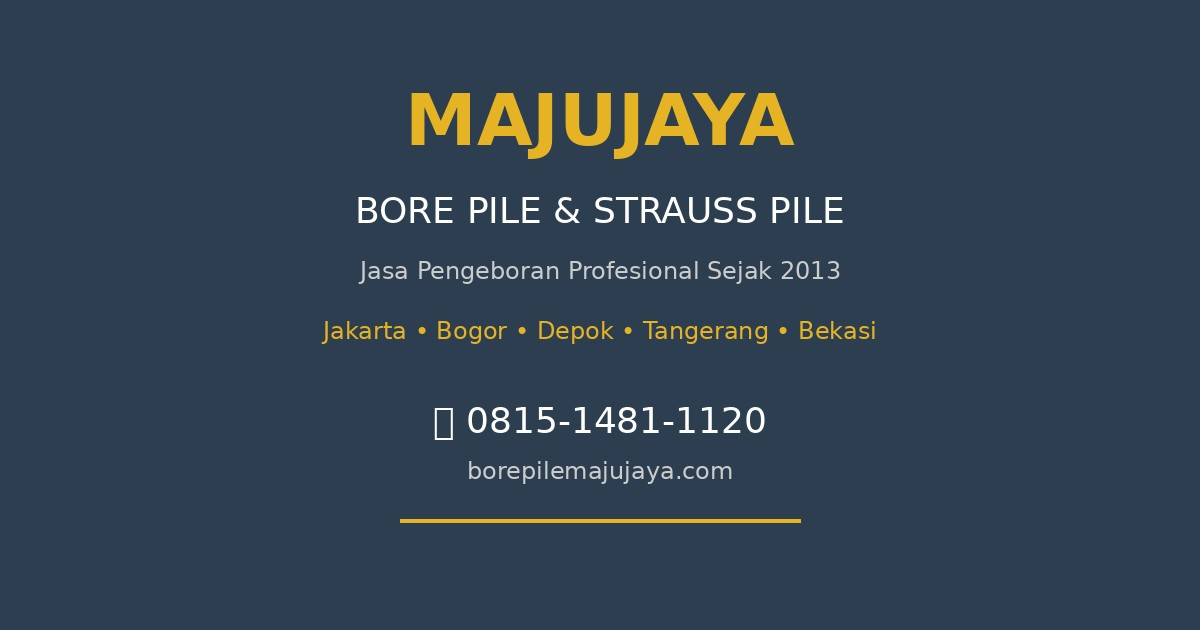
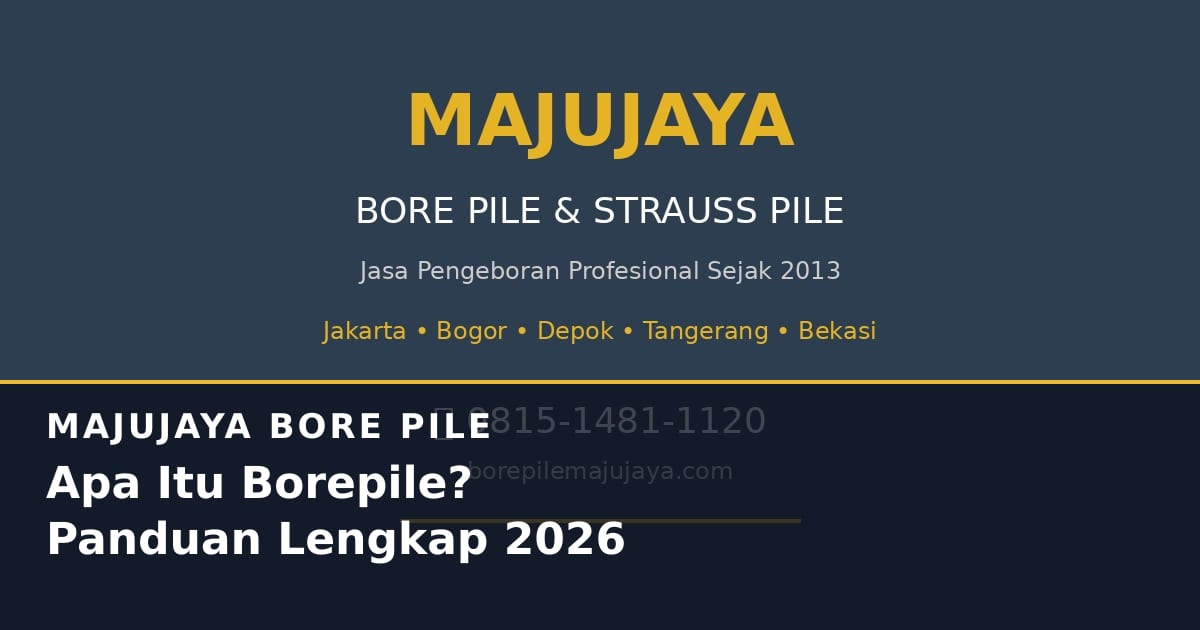
seo: unique blog og images, /blog index page, meta+lang tags

diff --git a/public/blog/index.html b/public/blog/index.html
@@ -1,0 +1,89 @@
+<!DOCTYPE html>
+<html lang="id">
+<head>
+    <meta charset="UTF-8">
+    <meta name="viewport" content="width=device-width, initial-scale=1.0">
+    <meta name="description" content="Blog Jasa Bore Pile Majujaya - panduan lengkap borepile, harga bore pile per titik 2026, dan tips memilih kontraktor bore pile terpercaya di Jakarta.">
+    <meta name="robots" content="index, follow, max-image-preview:large">
+    <title>Blog Jasa Bore Pile Majujaya - Panduan, Harga, dan Tips Kontraktor</title>
+    <link rel="canonical" href="https://borepilemajujaya.com/blog/">
+    <meta property="og:locale" content="id_ID">
+    <meta property="og:type" content="website">
+    <meta property="og:site_name" content="Jasa Bore Pile Majujaya">
+    <meta property="og:title" content="Blog Jasa Bore Pile Majujaya - Panduan, Harga, dan Tips Kontraktor">
+    <meta property="og:description" content="Panduan borepile, harga bore pile per titik 2026, dan tips memilih kontraktor bore pile terpercaya di Jakarta.">
+    <meta property="og:url" content="https://borepilemajujaya.com/blog/">
+    <meta property="og:image" content="https://borepilemajujaya.com/og-image.jpg">
+    <meta name="twitter:card" content="summary_large_image">
+    <link rel="preconnect" href="https://fonts.googleapis.com">
+    <link rel="preconnect" href="https://fonts.gstatic.com" crossorigin>
+    <link href="https://fonts.googleapis.com/css2?family=Inter:wght@400;500;600;700;800&display=swap" rel="stylesheet">
+    <link rel="stylesheet" href="/blog/blog.css">
+    <script type="application/ld+json">
+    {
+        "@context": "https://schema.org",
+        "@type": "Blog",
+        "name": "Blog Jasa Bore Pile Majujaya",
+        "url": "https://borepilemajujaya.com/blog/",
+        "description": "Panduan borepile, harga bore pile per titik 2026, dan tips memilih kontraktor bore pile terpercaya di Jakarta.",
+        "publisher": {
+            "@type": "Organization",
+            "name": "JASA BORE PILE MAJUJAYA",
+            "logo": {
+                "@type": "ImageObject",
+                "url": "https://borepilemajujaya.com/favicon.svg"
+            }
+        }
+    }
+    </script>
+</head>
+<body>
+    <div class="container">
+        <article-header>
+            <div class="article-meta">
+                <span>Blog Majujaya</span>
+                <span class="article-meta-divider"></span>
+                <span>Subiyanto</span>
+            </div>
+            <h1>Blog Jasa Bore Pile Majujaya</h1>
+            <p style="margin-top:1rem; color:var(--color-ink-muted);">Panduan lengkap borepile, harga bore pile per titik, dan tips memilih kontraktor bore pile terpercaya di Jakarta &amp; sekitarnya.</p>
+        </article-header>
+
+        <article>
+            <ul style="list-style:none; margin:0; padding:0;">
+
+                <li style="padding:1.5rem 0; border-bottom:1px solid var(--color-border);">
+                    <h2 style="margin:0 0 0.5rem; padding:0; border:none;"><a href="/blog/apa-itu-borepile-panduan-lengkap-2026.html">Apa Itu Borepile? Panduan Lengkap 2026 untuk Pemula</a></h2>
+                    <p style="margin:0 0 0.5rem; color:var(--color-ink-muted);">Definisi borepile, fungsi, jenis, proses pengerjaan, estimasi harga per titik, dan kapan Anda membutuhkan pondasi borepile.</p>
+                    <p style="margin:0; font-size:0.875rem; color:var(--color-ink-faint); text-transform:uppercase; letter-spacing:0.05em;">9 Juli 2026 &middot; 8 menit baca</p>
+                </li>
+
+                <li style="padding:1.5rem 0; border-bottom:1px solid var(--color-border);">
+                    <h2 style="margin:0 0 0.5rem; padding:0; border:none;"><a href="/blog/harga-bore-pile-per-titik-2026.html">Harga Bore Pile Per Titik 2026 - Lengkap &amp; Transparan</a></h2>
+                    <p style="margin:0 0 0.5rem; color:var(--color-ink-muted);">Harga strauss pile, bore pile mesin, sumur bor, dan rincian biaya komponen terpisah untuk proyek pondasi Anda.</p>
+                    <p style="margin:0; font-size:0.875rem; color:var(--color-ink-faint); text-transform:uppercase; letter-spacing:0.05em;">9 Juli 2026</p>
+                </li>
+
+                <li style="padding:1.5rem 0;">
+                    <h2 style="margin:0 0 0.5rem; padding:0; border:none;"><a href="/blog/tips-memilih-kontraktor-bore-pile-jakarta.html">7 Tips Memilih Kontraktor Bore Pile Terpercaya di Jakarta</a></h2>
+                    <p style="margin:0 0 0.5rem; color:var(--color-ink-muted);">Cara cek legalitas, portofolio, pengalaman, dan harga terbaik sebelum memilih kontraktor pondasi bore pile untuk proyek Anda.</p>
+                    <p style="margin:0; font-size:0.875rem; color:var(--color-ink-faint); text-transform:uppercase; letter-spacing:0.05em;">9 Juli 2026 &middot; 7 menit baca</p>
+                </li>
+
+            </ul>
+        </article>
+
+        <div class="cta-box">
+            <h3>Butuh Konsultasi Pondasi Bore Pile?</h3>
+            <p>Gratis survey dan konsultasi dengan tim geoteknik Majujaya -- 12+ tahun pengalaman, 250+ titik pengeboran.</p>
+            <a href="https://wa.me/6281514811120?text=Halo%20Majujaya%2C%20saya%20butuh%20konsultasi%20borepile" class="btn" target="_blank" rel="noopener">Konsultasi via WhatsApp</a>
+            <p style="margin-top:1rem; font-size:0.875rem; opacity:0.7;">0815-1481-1120 (Subiyanto) | Melayani Jakarta, Bogor, Depok, Tangerang, Bekasi &amp; sekitarnya</p>
+        </div>
+
+        <footer>
+            <p>&copy; 2026 JASA BORE PILE MAJUJAYA</p>
+            <p><a href="https://borepilemajujaya.com">Kembali ke Beranda</a> | <a href="https://borepilemajujaya.com/location/jakarta-pusat.html">Jakarta Pusat</a> | <a href="https://borepilemajujaya.com/location/jakarta-selatan.html">Jakarta Selatan</a></p>
+        </footer>
+    </div>
+</body>
+</html>

diff --git a/public/blog/apa-itu-borepile-panduan-lengkap-2026.html b/public/blog/apa-itu-borepile-panduan-lengkap-2026.html
@@ -6,6 +6,9 @@
     <meta name="description" content="Panduan lengkap apa itu borepile: definisi, fungsi, jenis, harga per titik, dan kapan butuh borepile untuk pondasi rumah, ruko, atau gedung. Baca sebelum bangun!">
     <meta name="keywords" content="borepile, apa itu borepile, fungsi borepile, jenis borepile, harga borepile, pondasi borepile, kontraktor borepile">
     <title>Apa Itu Borepile? Panduan Lengkap 2026 untuk Pemula | Majujaya Bore Pile</title>
+    <meta property="og:locale" content="id_ID">
+    <meta property="og:site_name" content="Jasa Bore Pile Majujaya">
+    <meta name="robots" content="index, follow, max-image-preview:large">
     <link rel="canonical" href="https://borepilemajujaya.com/blog/apa-itu-borepile-panduan-lengkap-2026.html">
     <meta property="og:type" content="article">
     <meta property="og:title" content="Apa Itu Borepile? Panduan Lengkap 2026 untuk Pemula">

diff --git a/public/blog/tips-memilih-kontraktor-bore-pile-jakarta.html b/public/blog/tips-memilih-kontraktor-bore-pile-jakarta.html
@@ -6,6 +6,9 @@
     <meta name="description" content="7 tips memilih kontraktor bore pile terpercaya di Jakarta 2026. Cara cek legalitas, portofolio, pengalaman, dan harga terbaik untuk proyek pondasi Anda.">
     <meta name="keywords" content="kontraktor bore pile, cara memilih kontraktor bore pile, kontraktor pondasi Jakarta, jasa bore pile terpercaya">
     <title>7 Tips Memilih Kontraktor Bore Pile Terpercaya di Jakarta | Majujaya</title>
+    <meta property="og:locale" content="id_ID">
+    <meta property="og:site_name" content="Jasa Bore Pile Majujaya">
+    <meta name="robots" content="index, follow, max-image-preview:large">
     <link rel="canonical" href="https://borepilemajujaya.com/blog/tips-memilih-kontraktor-bore-pile-jakarta.html">
     <meta property="og:type" content="article">
     <meta property="og:title" content="7 Tips Memilih Kontraktor Bore Pile Terpercaya di Jakarta">

diff --git a/public/blog/harga-bore-pile-per-titik-2026.html b/public/blog/harga-bore-pile-per-titik-2026.html
@@ -6,6 +6,9 @@
     <meta name="description" content="Harga bore pile per titik 2026 Jakarta: strauss pile Rp 800rb-6jt, mesin Rp 2.5jt-6jt. Lengkap harga strauss pile, sumur bor, dan biaya komponen terpisah.">
     <meta name="keywords" content="harga bore pile, harga strauss pile, harga sumur bor, biaya bore pile per titik 2026, price list borepile">
     <title>Harga Bore Pile Per Titik 2026 - Lengkap & Transparan | Majujaya Bore Pile</title>
+    <meta property="og:locale" content="id_ID">
+    <meta property="og:site_name" content="Jasa Bore Pile Majujaya">
+    <meta name="robots" content="index, follow, max-image-preview:large">
     <link rel="canonical" href="https://borepilemajujaya.com/blog/harga-bore-pile-per-titik-2026.html">
     <meta property="og:type" content="article">
     <meta property="og:title" content="Harga Bore Pile Per Titik 2026 - Lengkap & Transparan">

diff --git a/src/data/content.js b/src/data/content.js
@@ -527,6 +527,7 @@ export const footer = {
   email2: "subiyanto@jasa-borepile.com",
   hours: "Senin - Jum'at: 08.00 - 17.00",
   blogLinks: [
+    { title: "Blog Bore Pile", href: "/blog/" },
     { title: "Apa Itu Borepile? Panduan Lengkap 2026", href: "/blog/apa-itu-borepile-panduan-lengkap-2026.html" },
     { title: "Harga Bore Pile per Titik 2026", href: "/blog/harga-bore-pile-per-titik-2026.html" },
     { title: "7 Tips Memilih Kontraktor Bore Pile Jakarta", href: "/blog/tips-memilih-kontraktor-bore-pile-jakarta.html" },
